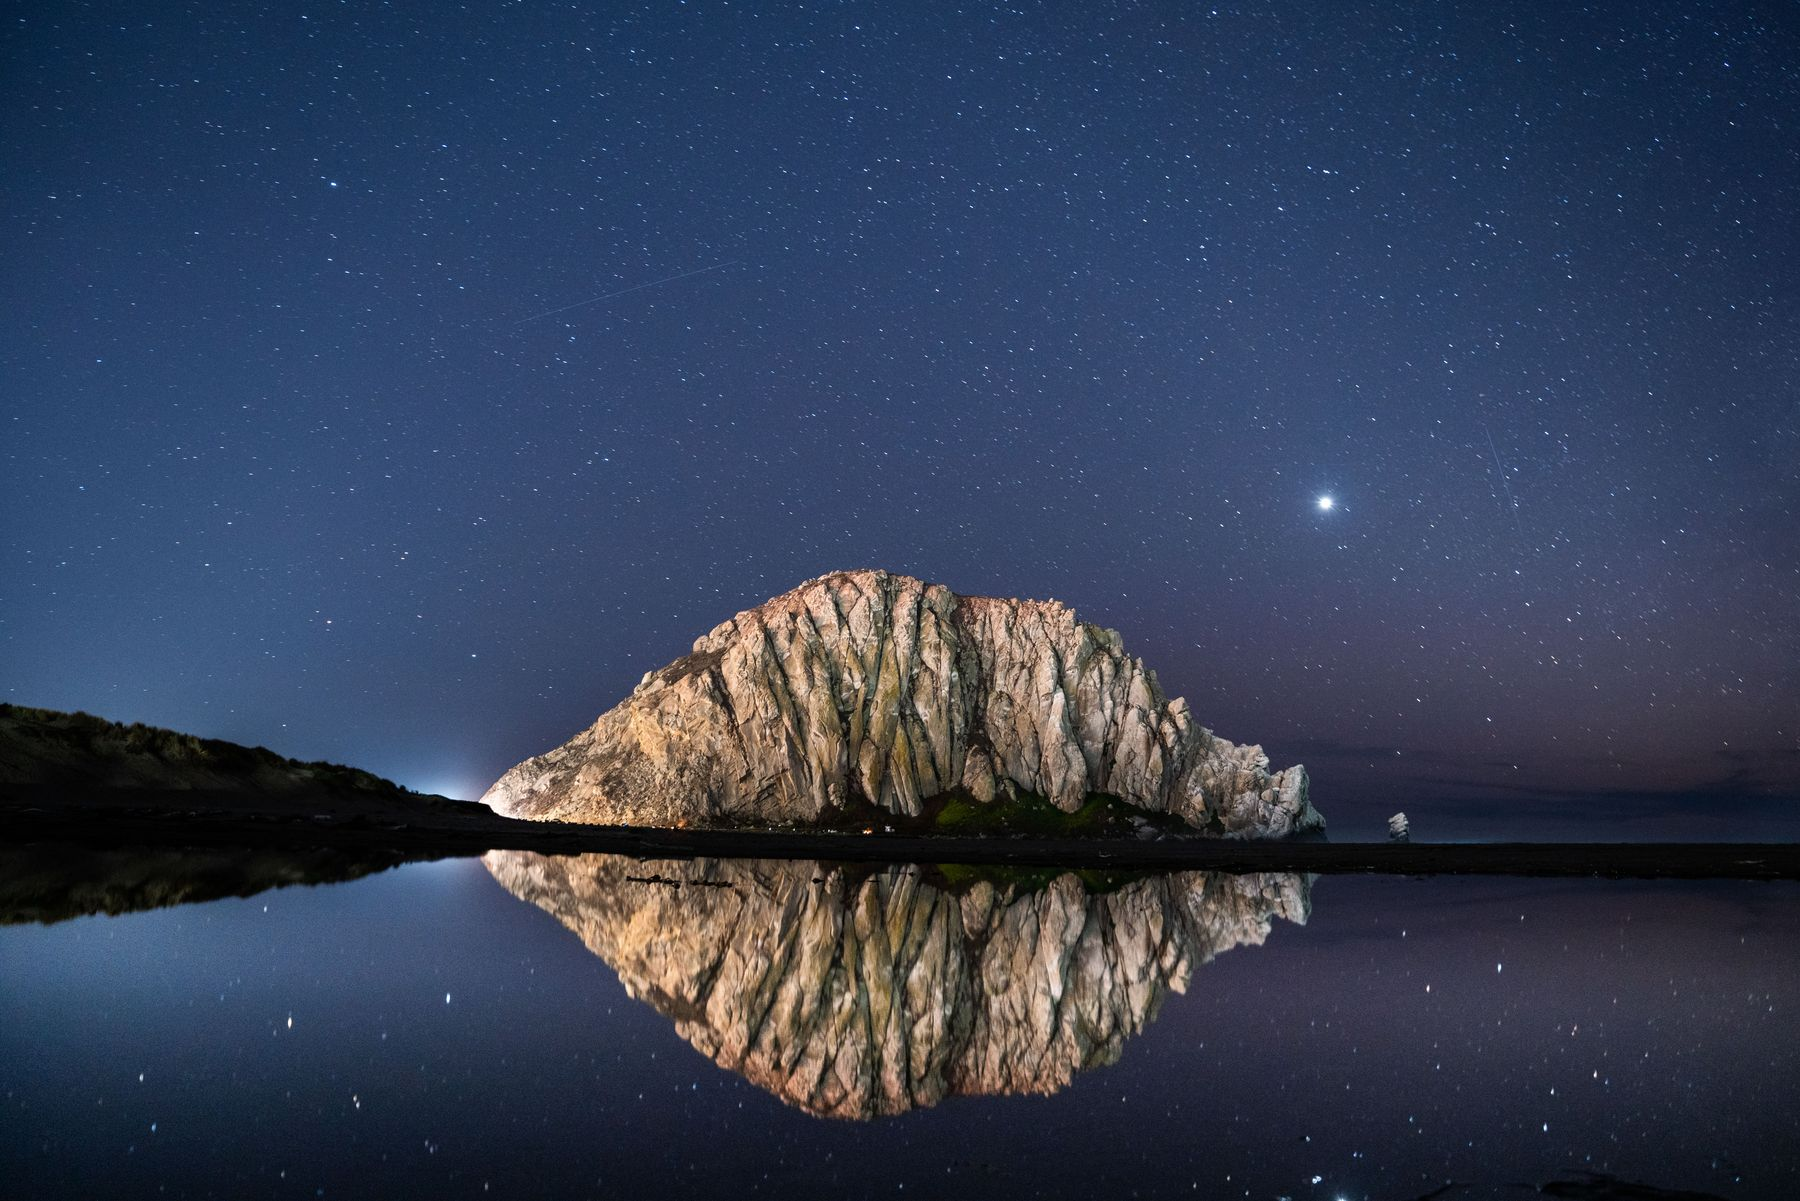
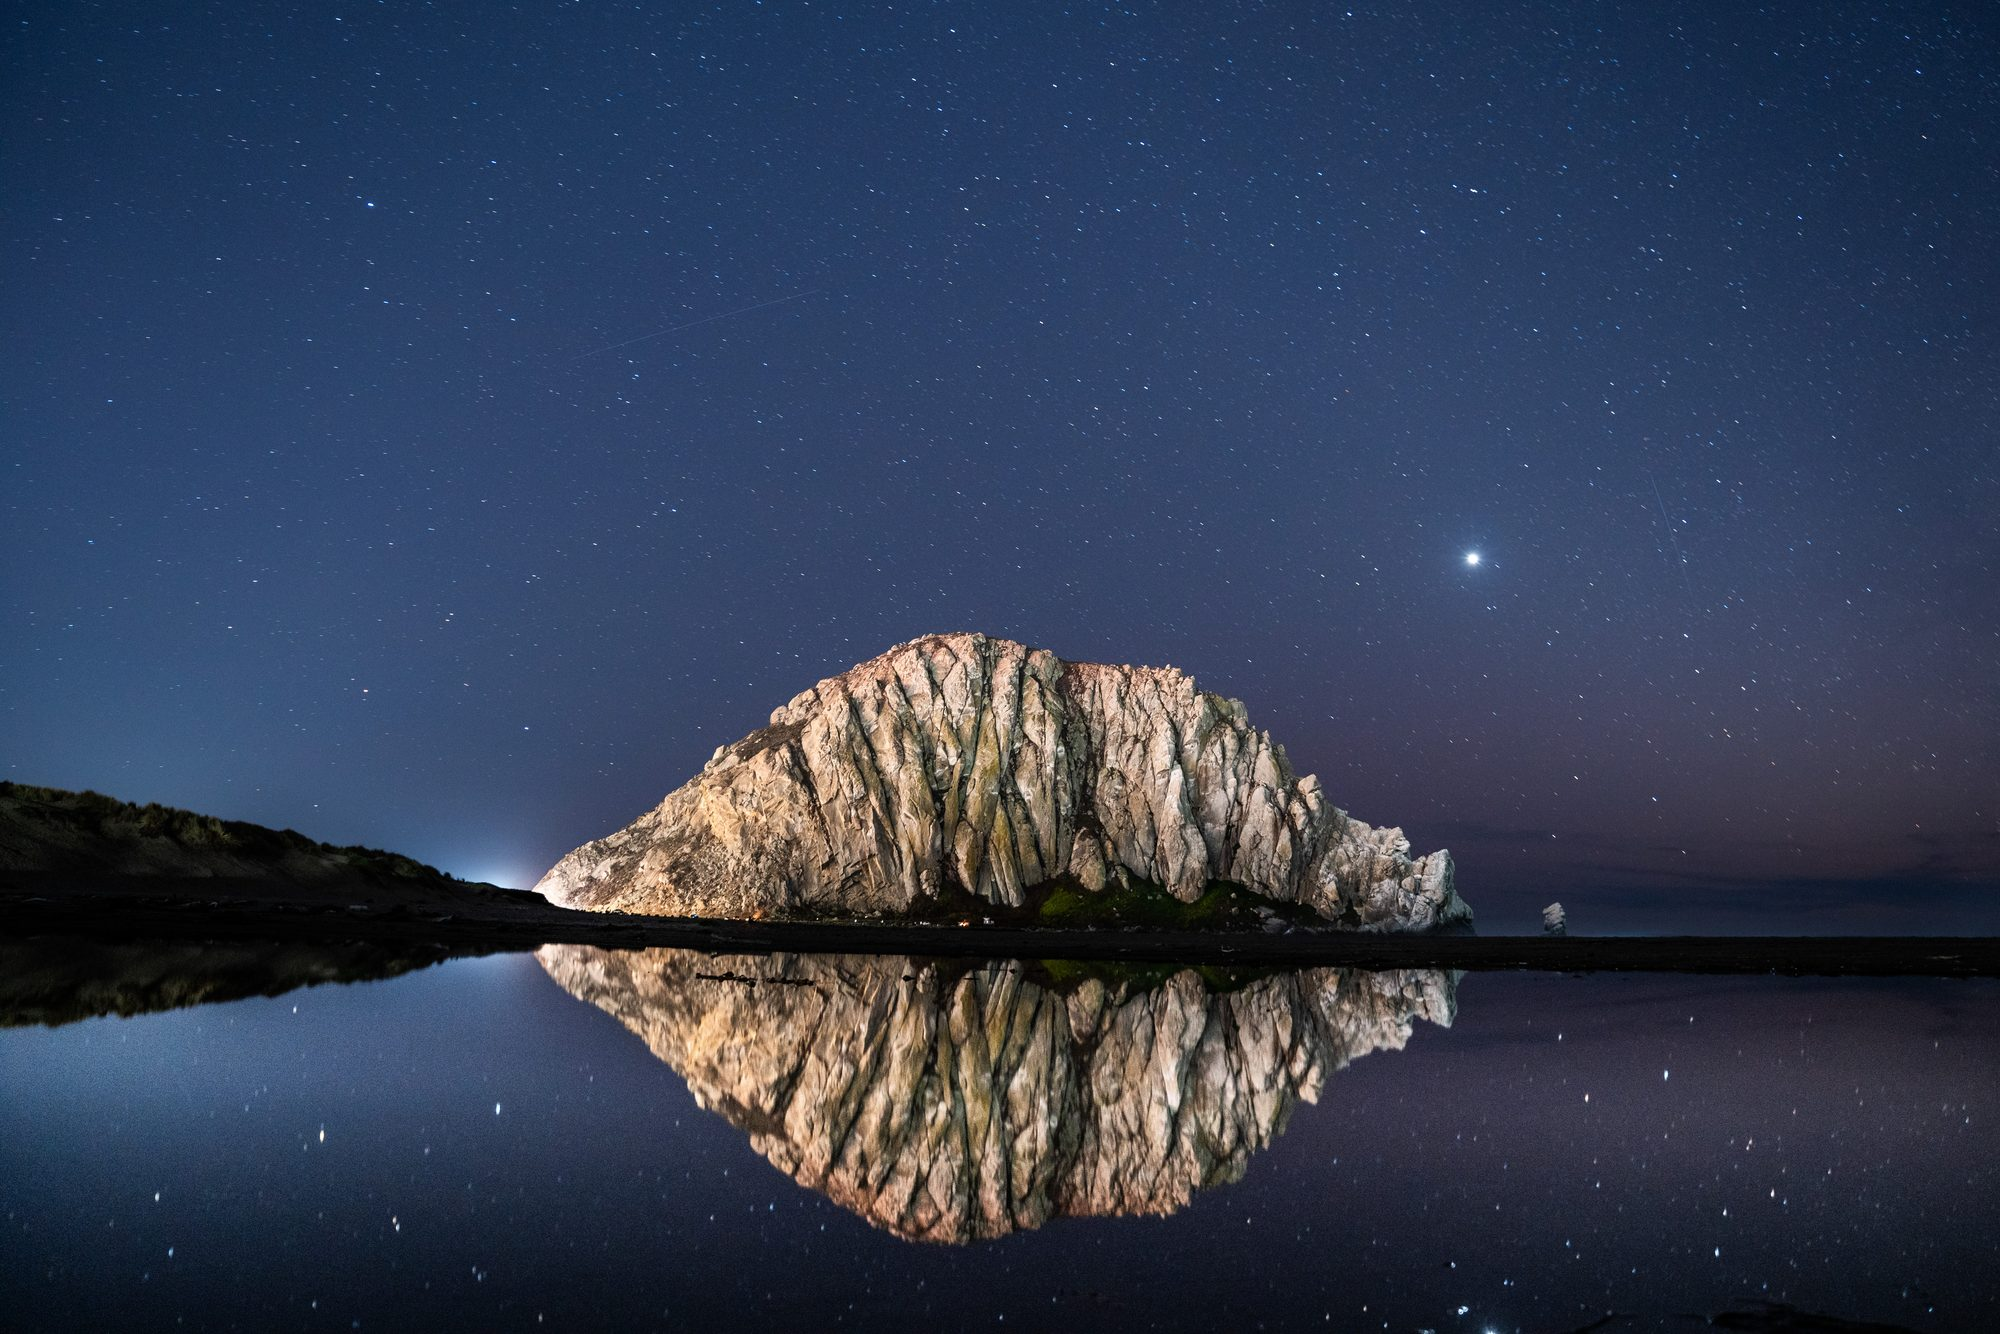
Morro Rock Adjustment

diff --git a/projects.html b/projects.html
@@ -13,7 +13,7 @@
 <meta property="og:image" content="https://isaacjessupwork.github.io/PhotographyGalleryWebsiteCode/projects-viticulture/dsc8534.jpg">
 <link rel="preconnect" href="https://fonts.googleapis.com">
 <link href="https://fonts.googleapis.com/css2?family=Cormorant+Garamond:wght@300;400&display=swap" rel="stylesheet">
-<link rel="stylesheet" href="style.css">
+<link rel="stylesheet" href="style.css?v=20261007a">
 <script type="application/ld+json">
 {"@context":"https://schema.org","@type":"BreadcrumbList","itemListElement":[
  {"@type":"ListItem","position":1,"name":"Home","item":"https://isaacjessupwork.github.io/PhotographyGalleryWebsiteCode/"},
@@ -71,7 +71,7 @@
     </article>
   </section>
 </main>
-<script src="data.js" defer></script>
-<script src="script.js" defer></script>
+<script src="data.js?v=20261007a" defer></script>
+<script src="script.js?v=20261007a" defer></script>
 </body>
 </html>

diff --git a/index.html b/index.html
@@ -6,8 +6,8 @@
 <title>Isaac Jessup — Photography</title>
 <link rel="preconnect" href="https://fonts.googleapis.com">
 <link href="https://fonts.googleapis.com/css2?family=Cormorant+Garamond:wght@300;400&display=swap" rel="stylesheet">
-<link rel="preload" as="image" href="dsc3401.jpg" fetchpriority="high">
-<link rel="stylesheet" href="style.css">
+<link rel="preload" as="image" href="dsc4182-2.jpg" fetchpriority="high">
+<link rel="stylesheet" href="style.css?v=20261007a">
 </head>
 <body>
 <header class="site-header">
@@ -27,7 +27,7 @@
   <div class="dots"></div>
   <div class="caption"></div>
 </main>
-<script src="data.js"></script>
-<script src="script.js"></script>
+<script src="data.js?v=20261007a"></script>
+<script src="script.js?v=20261007a"></script>
 </body>
 </html>

diff --git a/contact.html b/contact.html
@@ -6,7 +6,7 @@
 <title>Contact — Isaac Jessup</title>
 <link rel="preconnect" href="https://fonts.googleapis.com">
 <link href="https://fonts.googleapis.com/css2?family=Cormorant+Garamond:wght@300;400&display=swap" rel="stylesheet">
-<link rel="stylesheet" href="style.css">
+<link rel="stylesheet" href="style.css?v=20261007a">
 </head>
 <body>
 <header class="site-header">
@@ -27,7 +27,7 @@
     <a id="c-tt" href="https://www.tiktok.com/@isaacjessup" target="_blank" rel="noopener me"><span class="label">TikTok</span><span class="value">@isaacjessup</span></a>
   </div>
 </main>
-<script src="data.js"></script>
-<script src="script.js"></script>
+<script src="data.js?v=20261007a"></script>
+<script src="script.js?v=20261007a"></script>
 </body>
 </html>

diff --git a/gallery.html b/gallery.html
@@ -6,7 +6,7 @@
 <title>Gallery — Isaac Jessup</title>
 <link rel="preconnect" href="https://fonts.googleapis.com">
 <link href="https://fonts.googleapis.com/css2?family=Cormorant+Garamond:wght@300;400&display=swap" rel="stylesheet">
-<link rel="stylesheet" href="style.css">
+<link rel="stylesheet" href="style.css?v=20261007a">
 </head>
 <body>
 <header class="site-header header-solid">
@@ -29,7 +29,7 @@
   <img alt="">
   <button class="lb-btn lb-next" type="button" aria-label="Next">›</button>
 </div>
-<script src="data.js"></script>
-<script src="script.js"></script>
+<script src="data.js?v=20261007a"></script>
+<script src="script.js?v=20261007a"></script>
 </body>
 </html>

diff --git a/data.js b/data.js
@@ -8,7 +8,7 @@ window.PORTFOLIO = {
  },
  "carousel": [
   {
-   "src": "dsc3401.jpg",
+   "src": "dsc4182-2.jpg",
    "place": "California",
    "featured": true
   },
@@ -555,8 +555,8 @@ window.PORTFOLIO = {
     },
     {
      "src": "dsc4182-2.jpg",
-     "w": 1800,
-     "h": 1201
+     "w": 2000,
+     "h": 1334
     },
     {
      "src": "dsc4182.jpg",
@@ -845,11 +845,6 @@ window.PORTFOLIO = {
     },
     {
      "src": "dsc5950.jpg",
-     "w": 1800,
-     "h": 1201
-    },
-    {
-     "src": "dsc3401.jpg",
      "w": 1800,
      "h": 1201
     }
